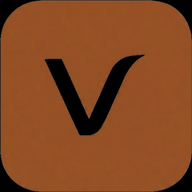
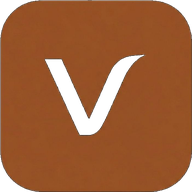
fix: 桌面图标去黑底变透明背景·manifest缓存刷新?v=3

Changed region(s): [[0.2188, 0.2812, 0.75, 0.7188], [0.0, 0.0, 1.0, 1.0], [0.8125, 0.8125, 1.0, 1.0]]

diff --git a/VORA_工厂上线决策系统.html b/VORA_工厂上线决策系统.html
@@ -3,7 +3,9 @@
 <head>
 <meta charset="UTF-8">
 <meta name="viewport" content="width=device-width, initial-scale=1.0">
-<link rel="manifest" href="manifest.json?v=2">
+<link rel="manifest" href="manifest.json?v=3">
+<link rel="icon" type="image/png" sizes="32x32" href="icon-192x192.png?v=3">
+<link rel="icon" type="image/svg+xml" href="favicon.svg?v=3">
 <meta property="og:title" content="VORA 工厂决策引擎 | 8维FDI评估系统">
 <meta property="og:description" content="8维FDI评分模型·输入产品参数·30秒生成工厂上线决策报告·ABCD分级">
 <meta property="og:type" content="website">
